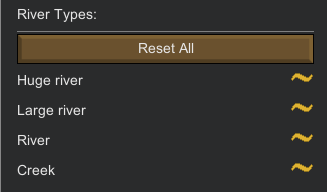
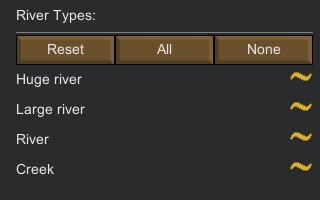
Update road & river selection.

diff --git a/games/rimworld/preparelanding/terrain_tab.md b/games/rimworld/preparelanding/terrain_tab.md
@@ -61,7 +61,7 @@ The vanilla game offers five terrain types:
 - Impassable
 
 Notice that the impassable terrain can't be chosen in `PrepareLanding` as it is not possible to settle your colony in such a terrain.
-However the `[TODO]` "Allow impassable tiles" in the Options tab allow you to choose and filter tiles with an impassable terrain.
+However the "Allow impassable tiles" in the Options tab allow you to choose and filter tiles with an impassable terrain.
 
 Road Type
 ---------
@@ -79,7 +79,7 @@ The vanilla game offers five road types (from the smallest to the biggest):
 
 See [three states filtering](filtering.md#three-states) on how to proceed with this type of filter.
 
-The `Reset All` button reset all the road filters to their default state (Partial state).
+The `Reset` button reset all the road filters to their default state (Partial state). The `All` button select all roads (On state) while the `None` button de-select all of them (Off state).
 
 River Type
 ----------
@@ -96,7 +96,7 @@ The vanilla game offers four river types (from the biggest to smallest):
 
 See [three states filtering](filtering.md#three-states) on how to proceed with this type of filter.
 
-The `Reset All` button reset all the river filters to their default state (Partial state).
+The `Reset All` button reset all the river filters to their default state (Partial state). The `All` button select all rivers (On state) while the `None` button de-select all of them (Off state).
 
 Movement Times
 --------------

diff --git a/games/rimworld/preparelanding/starting.md b/games/rimworld/preparelanding/starting.md
@@ -36,9 +36,9 @@ Available filters are:
     - Animals Can Graze Now
 	
 * Most / Least Features
- - Elevation
- - Temperature
- - Rainfall
+	- Elevation
+	- Temperature
+	- Rainfall
  
 It also offers the possibility of changing various features of an existing tiles (in `God mode`).
 
@@ -70,7 +70,7 @@ As you can see in the above screenshot, once `PrepareLanding` is installed, a ne
 
 ![bottom buttons](assets/bottom_buttons.png)
 
-Clicking on this button display a new window with five tabs:
+Clicking on this button display a new window with five tabs (note that the `God Mode` tab is hidden by default):
 
 ![terrain tab](assets/terrain_tab.png)
 
@@ -79,6 +79,7 @@ Clicking on this button display a new window with five tabs:
 * [Filtered Tiles](filtered_tab_tiles.md)
 * [World Info](world_info_tab.md)
 * [Options](options_tab.md)
+* [God Mode(god_mode.md)
 
 The above links discuss in detail each of the tabs and their content.
 
@@ -89,6 +90,7 @@ The main window itself (besides the tabs) has 4 buttons at the bottom:
 * `Reset Filters`: reset all filters to their default state
 * `Minimize`: [minimize](#minimized-window) the main window. Helpful once you have applied some filters and the main window is in your way.
 * `Close`: Close the main window. You can still make it reappear by clicking the `PrepareLanding` button at the bottom.
+* `Load / Save`: Load or save filters and / or options.
 
 Minimized Window
 ----------------

diff --git a/games/rimworld/preparelanding/installing.md b/games/rimworld/preparelanding/installing.md
@@ -46,4 +46,4 @@ Remember to put the `HugsLib` mod before `PrepareLanding` once you have clicked 
 
 The `PrepareLanding` mod is also available on [Steam](http://steamcommunity.com/sharedfiles/filedetails/?id=1095331978). You just have to click on the subscribe button. If you wish to do so, you can also leave a comment and / or a rating.
 
-As in the [From Github](#from-github) explanation above, remember to put `HugsLib` **before// the `PrepareLanding` mod.
+As in the [From Github](#from-github) explanation above, remember to put `HugsLib` **before** the `PrepareLanding` mod.

diff --git a/games/rimworld/preparelanding/readme.md b/games/rimworld/preparelanding/readme.md
@@ -28,6 +28,6 @@ Manual
     * Filtered Tiles Tab
     * World Info Tab
     * Options Tab
- * God Mode Tab
+    * God Mode Tab
     * [Minimized Window](starting.md#minimized-window)
 * [Filtering](filtering.md)
